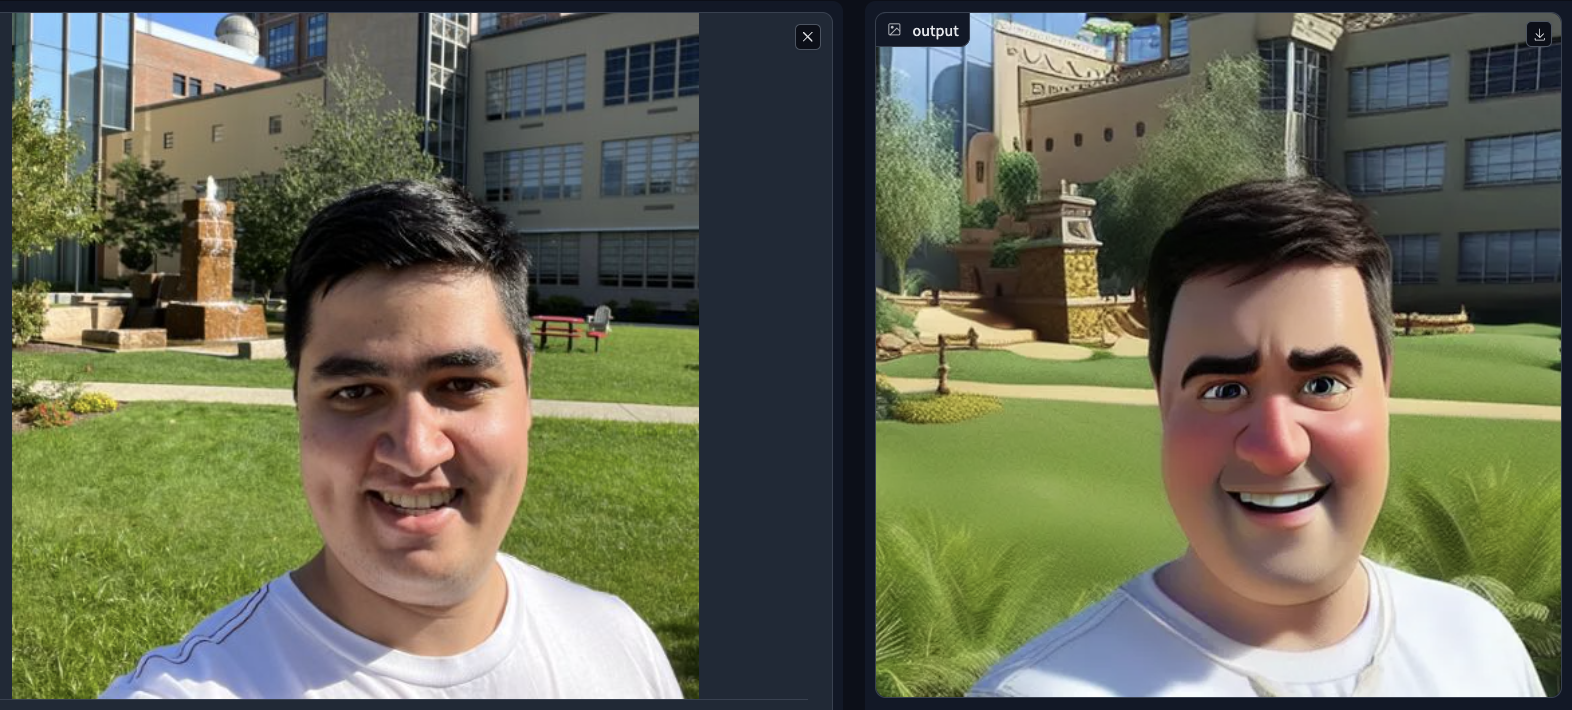
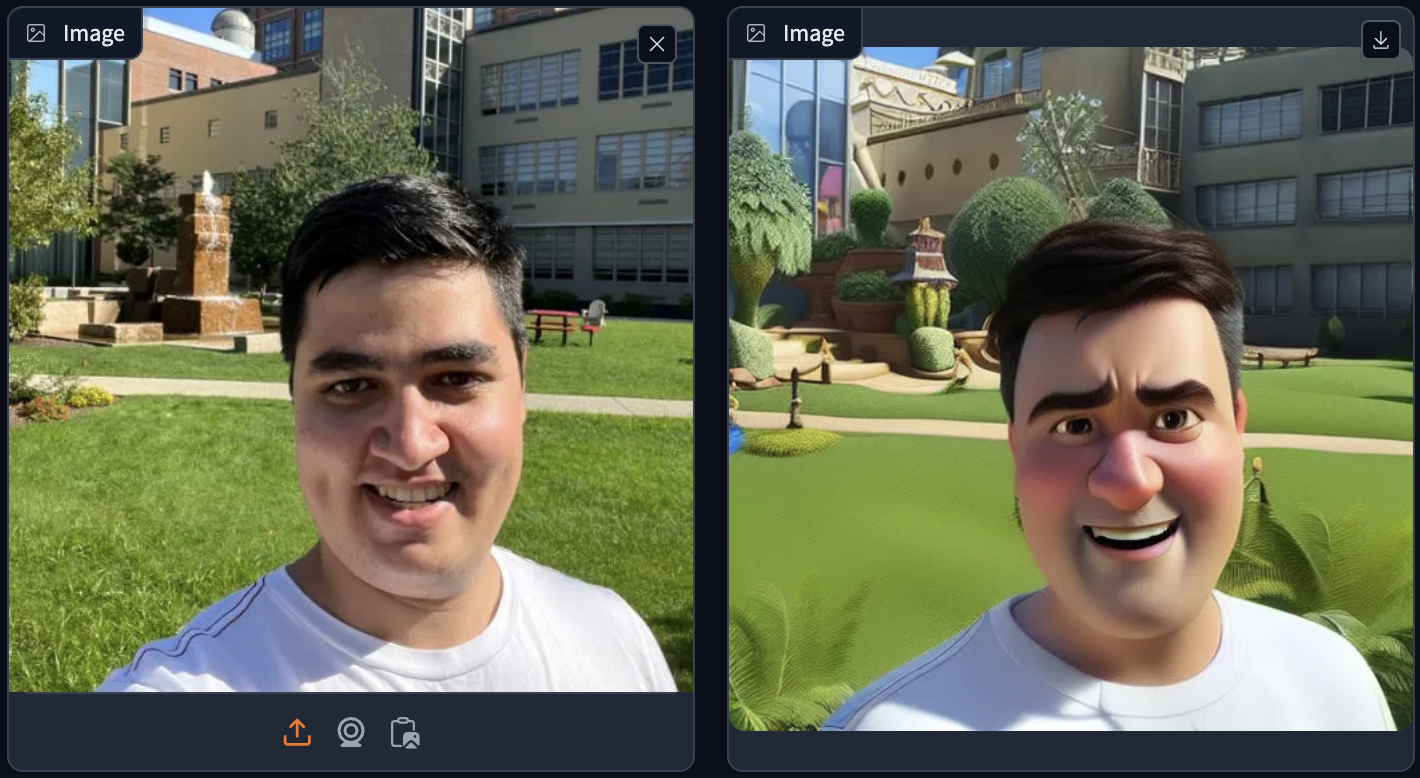
cleaned up demo

diff --git a/demo/app.py b/demo/app.py
@@ -3,42 +3,20 @@ from functools import partial
 from PIL import Image
 from cartoonify.utils import init_image_to_image_pipeline, predict as _predict
 
-pipeline = init_image_to_image_pipeline()
-predict = partial(_predict, pipeline)
 
-prompt = gr.Textbox(
-    value="disney style person, detailed", label="Prompt (max 77 tokens)"
-)
-negative_prompt = gr.Textbox(
-    value="[out of frame], ((noisy))",
-    label="Negative prompt (max 77 tokens)",
-)
-
-cfg = gr.Slider(
-    minimum=2,
-    maximum=20,
-    value=16,
-    step=0.5,
-    label="Classifier-free guidance scale (CFG)",
-)
-denoising = gr.Slider(
-    minimum=0.0, maximum=1.0, value=0.35, step=0.05, label="Denoising strength"
-)
-denoising_steps = gr.Slider(
-    minimum=10, maximum=50, value=50, step=1, label="Denoising steps"
-)
-random_seed = gr.Number(42, label="Random seed")
+def preprocess_image(img):
+    return img.resize((512, 512))
 
 
 def generate(
     image, prompt, negative_prompt, random_seed, cfg, denoising, denoising_steps
 ):
-    init_image = Image.open(image).convert("RGB").resize((512, 512))
+    # init_image = preprocess_image(image)
     image = predict(
         pipeline_config={
             "prompt": prompt,
             "negative_prompt": negative_prompt,
-            "image": init_image,
+            "image": image,
             "guidance_scale": cfg,
             "strength": denoising,
             "num_inference_steps": denoising_steps,
@@ -48,19 +26,63 @@ def generate(
     return image
 
 
-demo = gr.Interface(
-    generate,
-    inputs=[
-        gr.Image(type="filepath"),
-        prompt,
-        negative_prompt,
-        random_seed,
-        cfg,
-        denoising,
-        denoising_steps,
-    ],
-    outputs=gr.Image(width=512, height=512),
-).queue()
+with gr.Blocks() as demo:
+    pipeline = init_image_to_image_pipeline()
+    predict = partial(_predict, pipeline)
+    with gr.Row():
+        input_image = gr.Image(type="pil", image_mode="RGB")
+
+        input_image.upload(
+            fn=preprocess_image,
+            inputs=input_image,
+            outputs=input_image,
+            trigger_mode="once",
+        )
+        output_image = gr.Image()
+
+    with gr.Column():
+        prompt = gr.Textbox(
+            value="disney style person, 8k, ray tracing, detailed",
+            label="Prompt (max 77 tokens)",
+        )
+        negative_prompt = gr.Textbox(
+            value="[out of frame], ((noisy)), ((artifacts)), ((blurry)), ((distorted)), ((fake eyes))",
+            label="Negative prompt (max 77 tokens)",
+        )
+
+        cfg = gr.Slider(
+            minimum=2,
+            maximum=20,
+            value=20,
+            step=0.5,
+            label="Classifier-free guidance scale (CFG)",
+        )
+        denoising = gr.Slider(
+            minimum=0.0, maximum=1.0, value=0.35, step=0.05, label="Denoising strength"
+        )
+        denoising_steps = gr.Slider(
+            minimum=10, maximum=50, value=50, step=1, label="Denoising steps"
+        )
+        random_seed = gr.Number(42, label="Random seed")
+
+        with gr.Row():
+            run = gr.Button(value="Generate")
+
+            run.click(
+                fn=generate,
+                inputs=[
+                    input_image,
+                    prompt,
+                    negative_prompt,
+                    random_seed,
+                    cfg,
+                    denoising,
+                    denoising_steps,
+                ],
+                outputs=output_image,
+            )
+            clear = gr.ClearButton(components=[output_image])
+
 
 if __name__ == "__main__":
     demo.launch()
